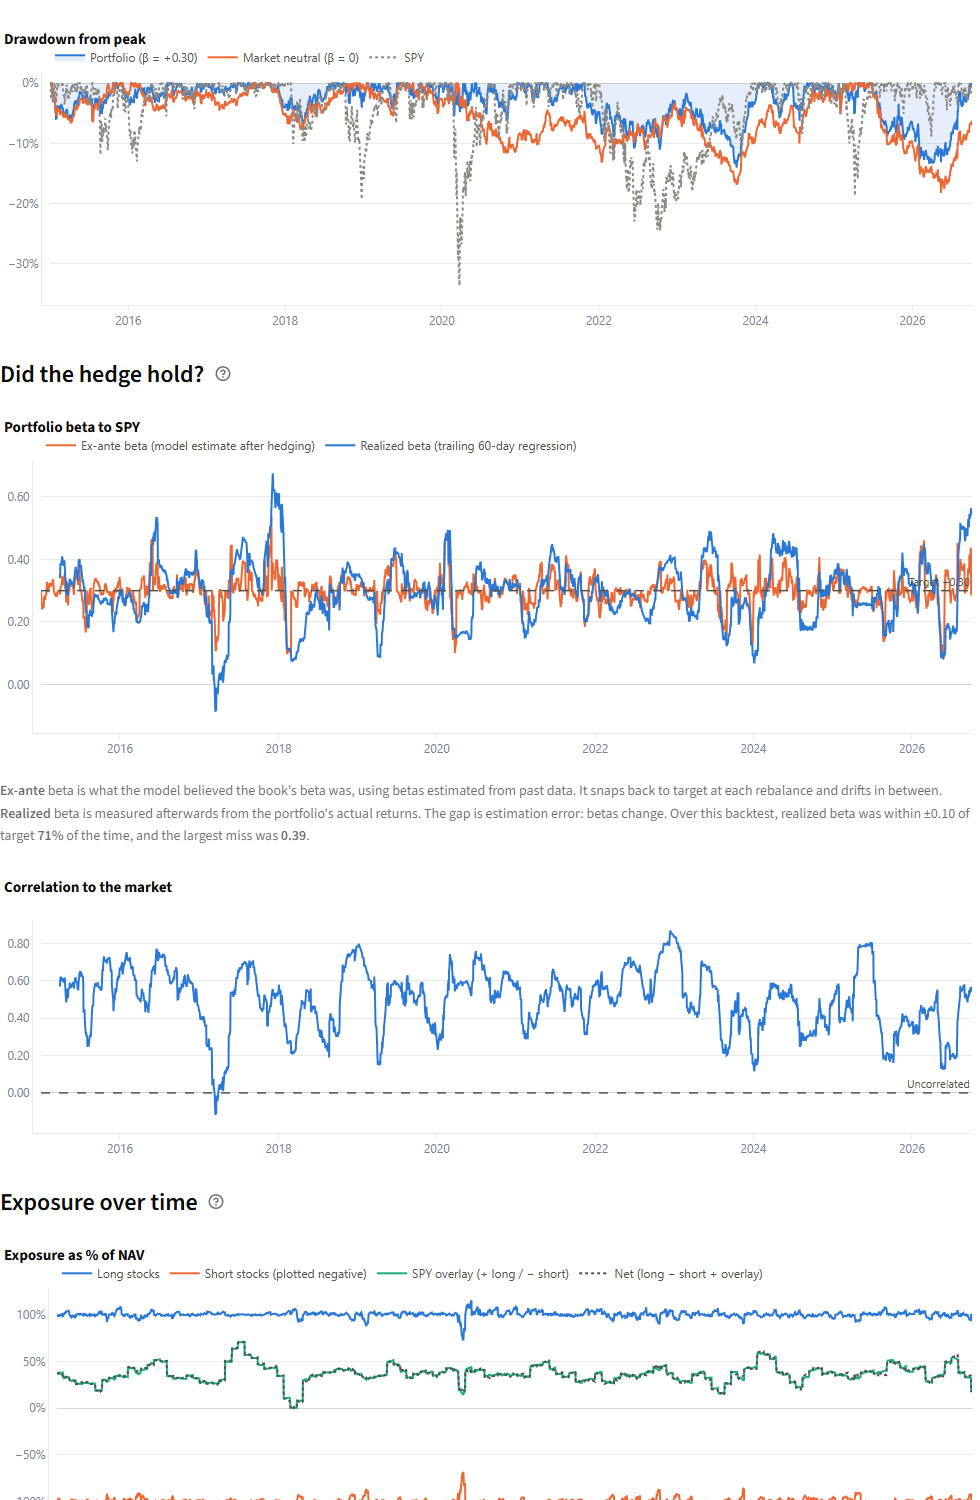
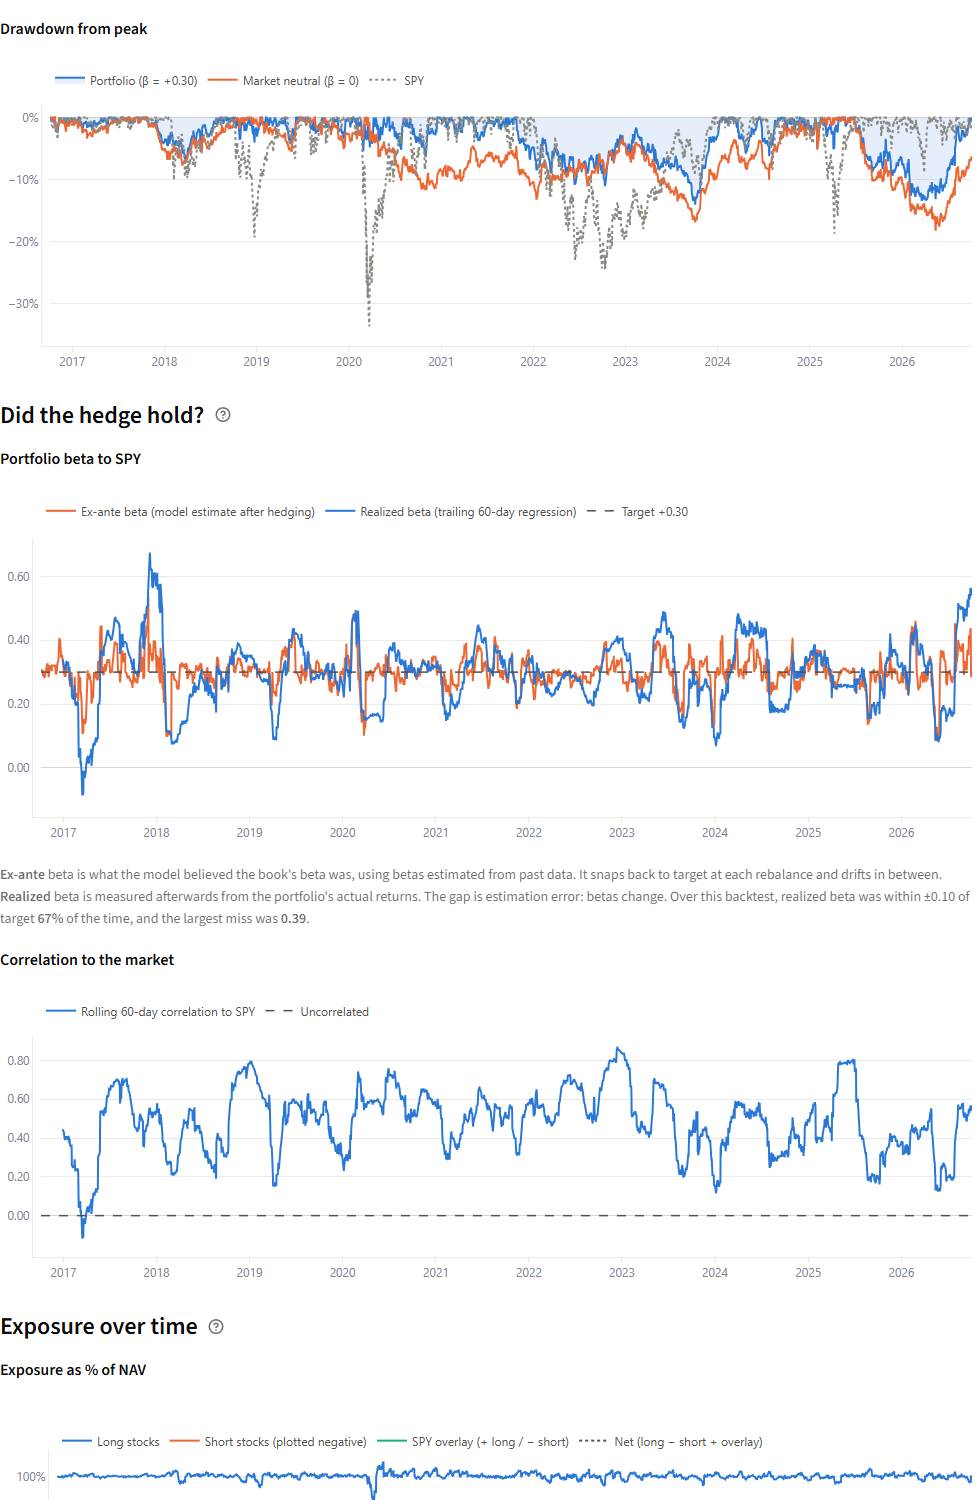
Update README and screenshots for lookback buttons and book-wide sizing

diff --git a/README.md b/README.md
@@ -20,7 +20,7 @@ streamlit run app.py
 
 Your browser opens at http://localhost:8501. Pick **All seven presets → Add** to load the example pairs, then move the **Target portfolio beta** slider.
 
-The first run downloads full price history for each ticker from Yahoo Finance and caches it in `.cache/prices/` for the rest of the day. After that, changing dates and settings is instant.
+The first run downloads full price history for each ticker from Yahoo Finance and caches it in `.cache/prices/` for the rest of the day. After that, switching lookbacks and settings is instant.
 
 ## What it does
 
@@ -33,11 +33,11 @@ The first run downloads full price history for each ticker from Yahoo Finance an
 | **Stress & Sensitivity** | The same book run through the 2008 crisis, the March 2020 crash, the 2022 bear market and the Nov 2020 value rotation, plus Sharpe, CAGR and drawdown across target betas from −0.5 to +1.5. |
 | **Learn** | How pairs trading works, why funds run it, how it fails, the main backtest pitfalls, a glossary, and suggested exercises. |
 
-**Pair input.** Editable table with a long ticker, short ticker, weight and sizing method (dollar neutral, beta neutral or volatility matched). It includes preset pairs (KO/PEP, HD/LOW, V/MA, XOM/CVX, GM/F, UPS/FDX, MSFT/GOOGL), one-click **flip direction** buttons, and **save/load as JSON** (pairs plus every sidebar setting).
+**Pair input.** Editable table with a long ticker, short ticker and weight, plus one sizing method for the whole book (dollar neutral, beta neutral or volatility matched). It includes preset pairs (KO/PEP, HD/LOW, V/MA, XOM/CVX, GM/F, UPS/FDX, MSFT/GOOGL), one-click **flip direction** buttons, and **save/load as JSON** (pairs plus every sidebar setting).
 
 **Assumptions** (sidebar, each with a tooltip):
 - target beta, benchmark (SPY/QQQ/IWM/DIA) and beta window
-- dates, capital and gross leverage
+- backtest window (1, 3, 5 or 10 years ending today), capital and gross leverage
 - rebalance frequency (daily/weekly/monthly/never)
 - transaction costs, stock and ETF borrow fees, and cash rate
 - whether short positions pay dividends
